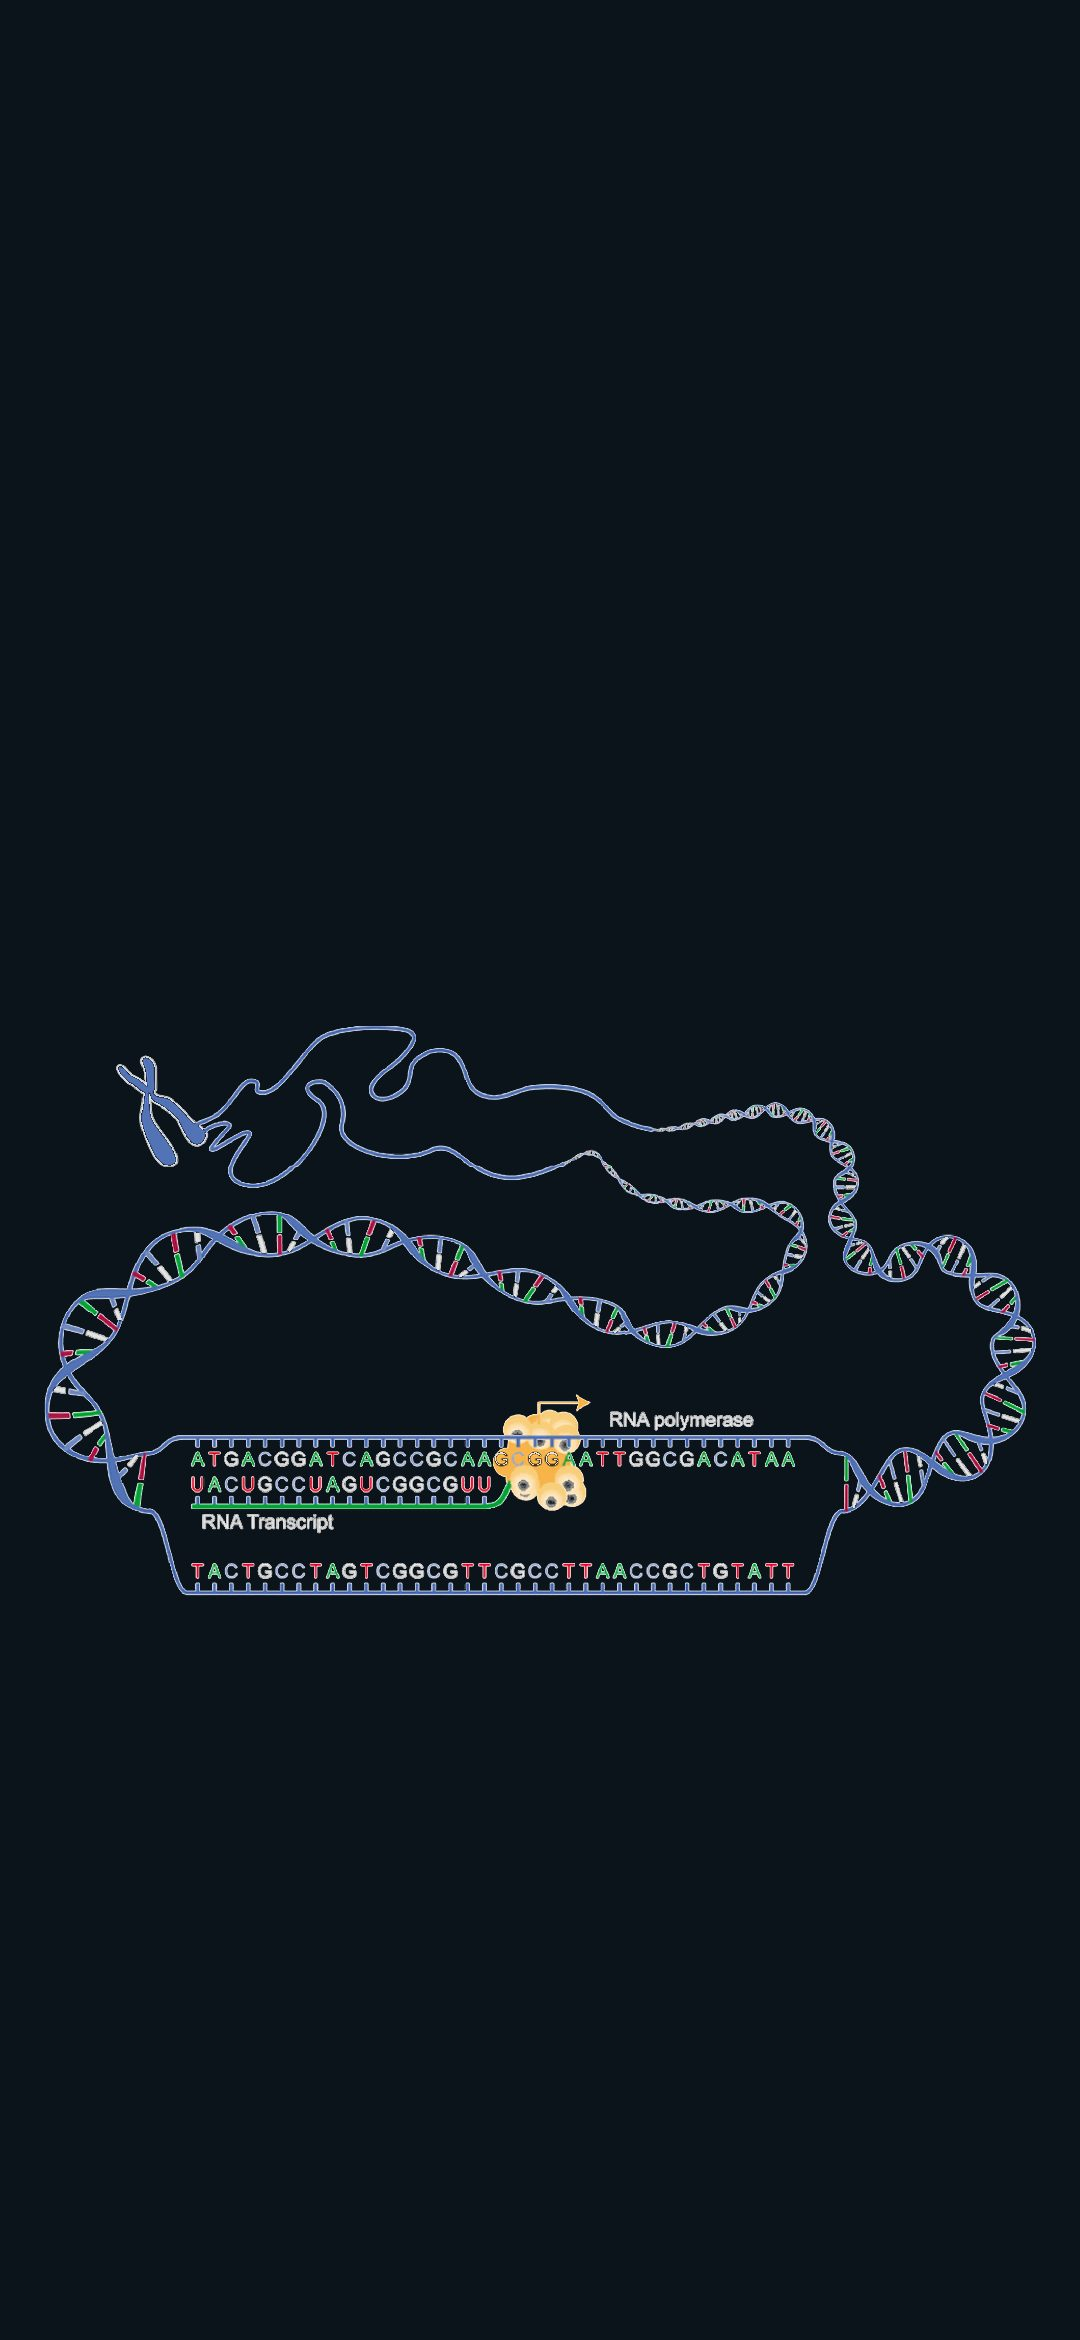
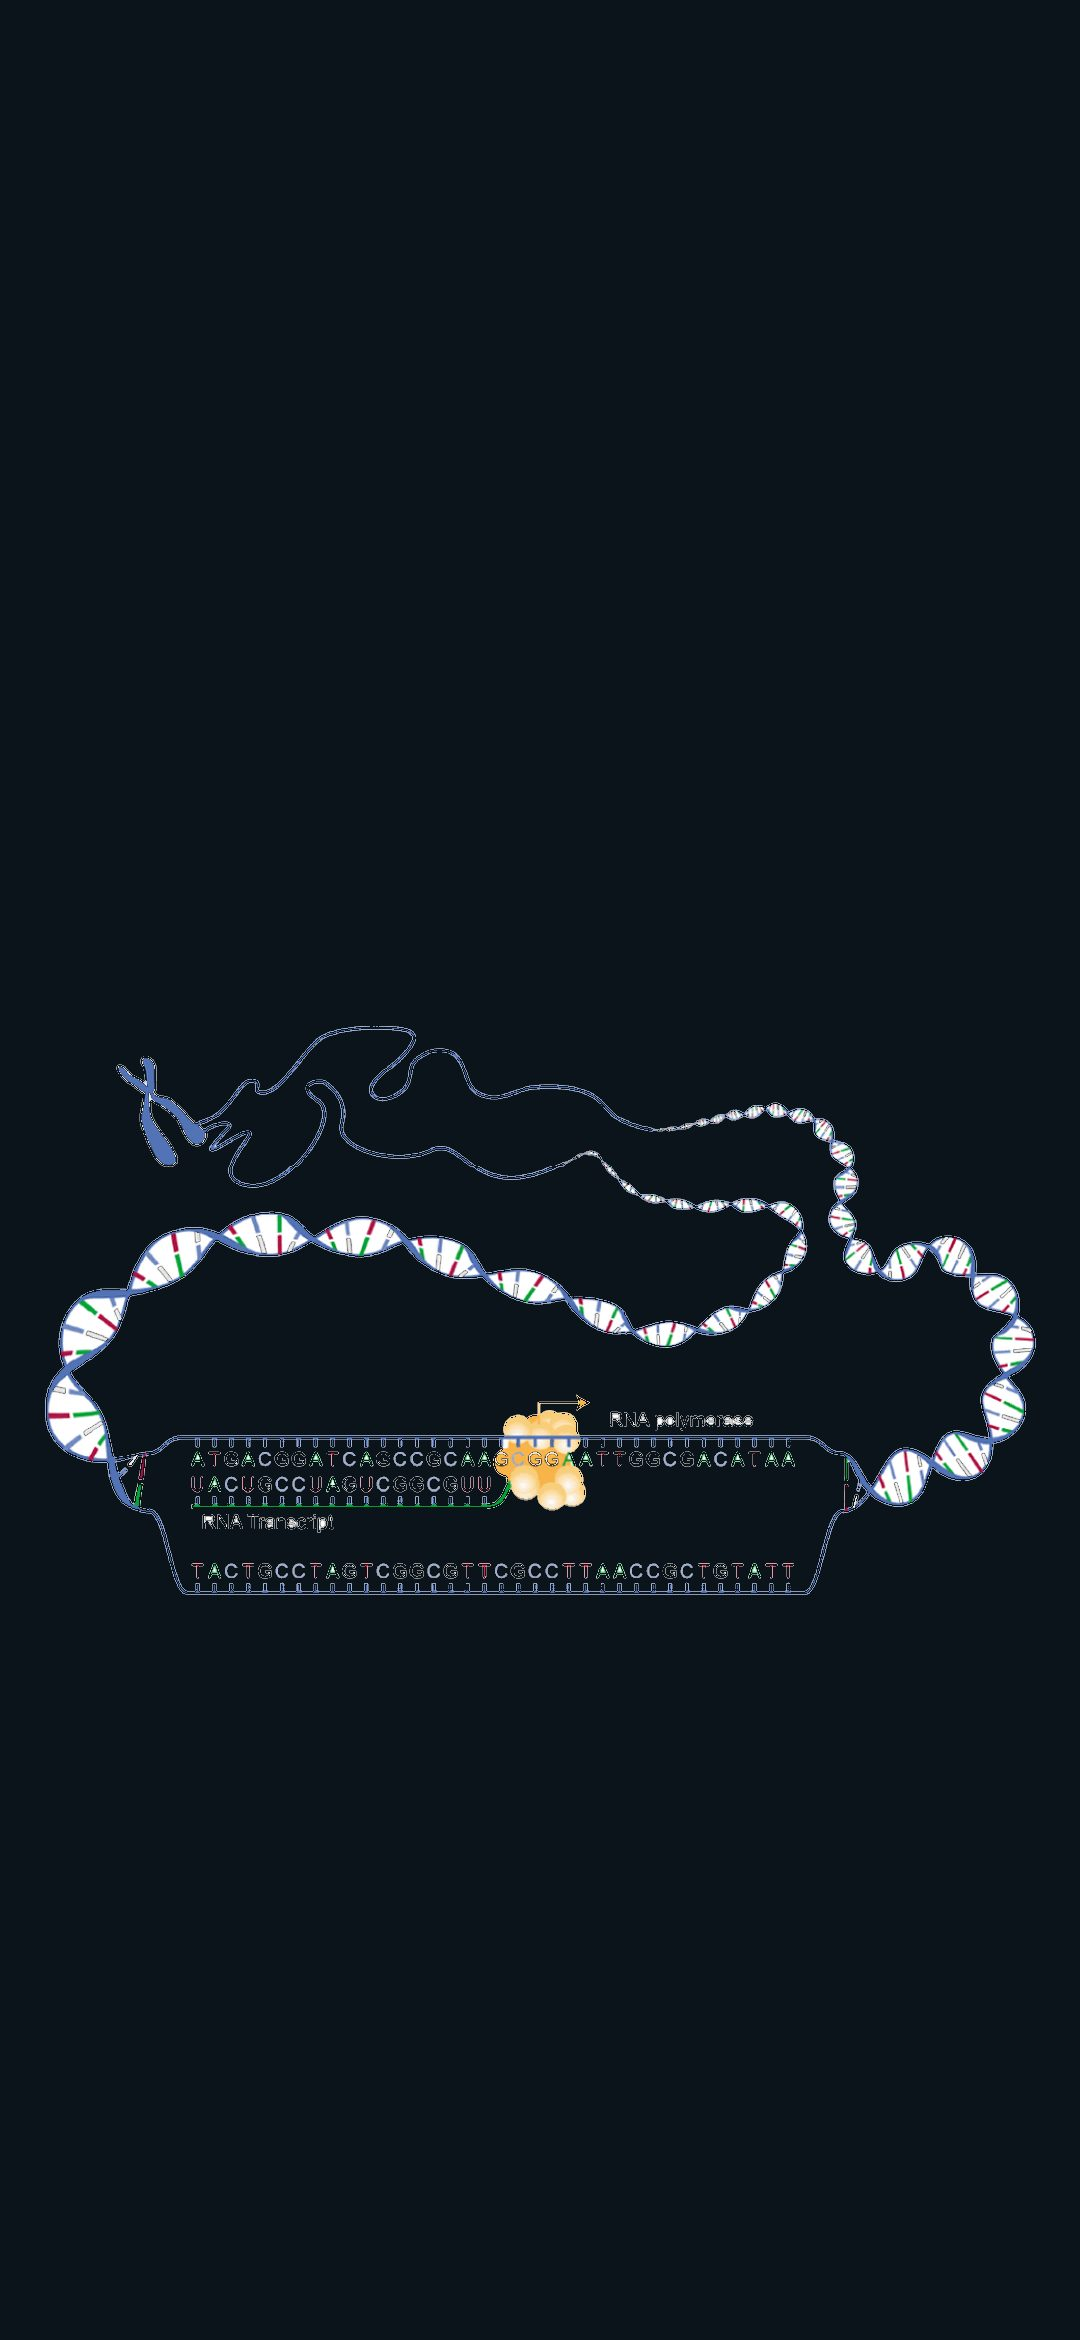
生物图去白底只去背景，图里的白色保留
- 原图透明的直接用透明通道
- 白底图只去掉和四边连通的白色；平面示意图再去掉被线围住的大片纯白
- 三维渲染图里的白色高光、白原子不再被挖空
- 只把小块的黑灰色（字、细线）反相成浅色，大块深色（碳原子）不动

diff --git a/scripts/biology/compose.py b/scripts/biology/compose.py
@@ -5,7 +5,9 @@
   python3 compose.py app/src/main/assets/biology [编号...]
 """
 import json, os, subprocess, sys, tempfile
+import numpy as np
 from PIL import Image
+from scipy import ndimage
 
 W, H = 1080, 2340
 BG = (11, 20, 27)
@@ -23,8 +25,8 @@ GG = "https://pdb101.rcsb.org/sci-art/goodsell-gallery/"
 items = [
     (1, "cm/05.bin", "plate", "DNA 双螺旋：碱基互补配对", B, "CC BY 3.0", C + "Blausen_0322_DNA_2.png"),
     (2, "cm/09.bin", "plate", "DNA 复制：解旋后两条链各作模板", LH, "公有领域", C + "DNA_replication_en.svg"),
-    (3, "cm/01.bin", "plate", "转录：RNA 聚合酶以一条链为模板合成 RNA", OS + "《Biology 2e》", "CC BY 4.0", C + "0325_Transcription.jpg"),
-    (4, "cm/15.bin", "plate", "翻译：核糖体沿 mRNA 移动，tRNA 运来氨基酸", LH, "公有领域", C + "Ribosome_mRNA_translation_en.svg"),
+    (3, "cm/01.bin", "plate+holes", "转录：RNA 聚合酶以一条链为模板合成 RNA", OS + "《Biology 2e》", "CC BY 4.0", C + "0325_Transcription.jpg"),
+    (4, "cm/15.bin", "plate+holes", "翻译：核糖体沿 mRNA 移动，tRNA 运来氨基酸", LH, "公有领域", C + "Ribosome_mRNA_translation_en.svg"),
     (5, "cm/x1.bin", "plate", "百合花粉母细胞减数分裂（显微照片）", "Josef Reischig", "CC BY-SA 3.0", C + "Meiosis_(261_33).jpg"),
     (6, "cm/08.bin", "plate", "细胞膜的流动镶嵌模型", LH, "公有领域", C + "Cell_membrane_detailed_diagram_en.svg"),
     (7, "tif/chloroplast.tif", "fill", "叶绿体内部：类囊体膜与基质里的分子", G + "，doi:10.2210/rcsb_pdb/goodsell-gallery-010", "CC BY 4.0", GG + "chloroplast"),
@@ -32,20 +34,20 @@ items = [
     (9, "cm/06.bin", "plate", "线粒体：内膜折叠成嵴", B, "CC BY 3.0", C + "Blausen_0644_Mitochondria.png"),
     (10, "gs/excitatory-and-inhibitory-synapses.png", "fill", "突触：突触小泡里的神经递质", G + "，doi:10.2210/rcsb_pdb/goodsell-gallery-016", "CC BY 4.0", GG + "excitatory-and-inhibitory-synapses"),
     (11, "cm/04.bin", "plate", "动作电位：Na⁺ 内流、K⁺ 外流", B, "CC BY 3.0", C + "Blausen_0011_ActionPotential_Nerve.png"),
-    (12, "cm/13.bin", "plate", "红细胞在高渗、等渗、低渗溶液中", LH, "公有领域", C + "Osmotic_pressure_on_blood_cells_diagram.svg"),
+    (12, "cm/13.bin", "plate+holes", "红细胞在高渗、等渗、低渗溶液中", LH, "公有领域", C + "Osmotic_pressure_on_blood_cells_diagram.svg"),
     (13, "gs/bacteriophage-t4-infection.png", "fill", "T4 噬菌体侵染大肠杆菌", G + "，doi:10.2210/rcsb_pdb/goodsell-gallery-048", "CC BY 4.0", GG + "bacteriophage-t4-infection"),
     (14, "gs/sars-cov-2-and-neutralizing-antibodies.png", "fill", "抗体（黄色）结合在病毒表面", G + "，doi:10.2210/rcsb_pdb/goodsell-gallery-025", "CC BY 4.0", GG + "sars-cov-2-and-neutralizing-antibodies"),
     (15, "cm/14.bin", "video", "紫色洋葱表皮细胞质壁分离及复原（实拍延时）", "Gabe Classon", "CC0", C + "Red_onion_plasmolysis_timelapse.webm"),
     (16, "gs/autophagy.png", "fill-trim", "自噬：溶酶体分解细胞内的旧结构", G + "，doi:10.2210/rcsb_pdb/goodsell-gallery-012", "CC BY 4.0", GG + "autophagy"),
-    (17, "cm/x0.bin", "plate", "ATP 分子（按晶体结构绘制）", "Ben Mills", "公有领域", C + "ATP-xtal-3D-balls.png"),
+    (17, "cm/x0.bin", "plate-notext", "ATP 分子（按晶体结构绘制）", "Ben Mills", "公有领域", C + "ATP-xtal-3D-balls.png"),
     (18, "gs/biosites-nucleus.png", "fill", "细胞核内：染色质与核孔", G + "，doi:10.2210/rcsb_pdb/goodsell-gallery-004", "CC BY 4.0", GG + "biosites-nucleus"),
-    (19, "cm/07.bin", "plate", "渗透：水透过半透膜进入溶液一侧", OS + "《Chemistry 2e》", "CC BY 4.0", C + "CNX_Chem_11_04_osmosis.png"),
-    (20, "cm/00.bin", "plate", "自由扩散：小分子顺浓度梯度穿过磷脂双分子层", OS + "《Biology 2e》", "CC BY 4.0", C + "0305_Simple_Diffusion_Across_Plasma_Membrane.jpg"),
+    (19, "cm/07.bin", "plate+holes", "渗透：水透过半透膜进入溶液一侧", OS + "《Chemistry 2e》", "CC BY 4.0", C + "CNX_Chem_11_04_osmosis.png"),
+    (20, "cm/00.bin", "plate+holes", "自由扩散：小分子顺浓度梯度穿过磷脂双分子层", OS + "《Biology 2e》", "CC BY 4.0", C + "0305_Simple_Diffusion_Across_Plasma_Membrane.jpg"),
 ]
 only = set(int(a) for a in sys.argv[2:])
 
 def flat(im):
-    # 透明底的矢量图先垫白，统一按白底处理（plate 里再把白去掉）。
+    # 油画、照片、视频帧：透明处垫白，转成 RGB。
     if im.mode in ("RGBA", "LA", "P"):
         im = im.convert("RGBA"); bg = Image.new("RGBA", im.size, (255, 255, 255, 255)); bg.alpha_composite(im); im = bg
     return im.convert("RGB")
@@ -73,40 +75,63 @@ def wide(im, trim=0.0):
     canvas.paste(Image.new("RGB", (W, fade), BG), (0, y0), Image.eval(mask, lambda v: 255 - v))
     return canvas
 
-def knockout(im):
-    """去掉白底：接近白色的像素变透明；黑灰色的字和线条提亮成浅灰，放在深色底上看得见；彩色部分不动。"""
-    im = im.convert("RGBA")
-    px = im.load()
-    for y in range(im.height):
-        for x in range(im.width):
-            r, g, b, a = px[x, y]
-            lo, hi = min(r, g, b), max(r, g, b)
-            if lo > 200:  # 白和近白：越白越透明
-                a = a * max(0, 250 - lo) // 50
-            elif hi - lo < 28 and hi < 140:  # 黑灰色字和线
-                v = 235 - hi // 3
-                r = g = b = v
-            px[x, y] = (r, g, b, a)
-    return im
+def knockout(im, holes=False, text=True):
+    """
+    去掉白底，放到深色底上。
+    原图本来透明（矢量图）就直接用它的透明通道，图里的白色一律保留。
+    白底的图只去掉和四边连成一片的白色；holes=True 的图（平面示意图）再去掉被线条围住的大片纯白。
+    三维渲染图里的白色高光、白原子都留着。背景边缘按白的程度渐变透明。
+    text=True 时，小块的黑灰色连通块（字、细线、箭头）按亮度反相成浅色，大块深色不动。
+    """
+    rgba = np.asarray(im.convert("RGBA")).astype(np.int16)
+    a, alpha = rgba[:, :, :3], rgba[:, :, 3].copy()
+    lo, hi = a.min(axis=2), a.max(axis=2)
+    if (alpha < 10).mean() < 0.05:
+        white = lo > 225
+        labels, n = ndimage.label(white)
+        keep = set(np.unique(np.concatenate([labels[0], labels[-1], labels[:, 0], labels[:, -1]]))) - {0}
+        if holes:
+            sizes = ndimage.sum(white, labels, range(1, n + 1))
+            means = ndimage.mean(lo, labels, range(1, n + 1))
+            keep |= {i + 1 for i in range(n) if sizes[i] > white.size * 0.004 and means[i] > 248}
+        bg = np.isin(labels, list(keep))
+        near = ndimage.binary_dilation(bg, iterations=2) & ~bg
+        alpha[bg] = 0
+        alpha[near] = np.minimum(alpha[near], np.clip((255 - lo[near]) * 255 // 90, 0, 255))
+    if text:
+        dark = (hi - lo < 40) & (hi < 170) & (alpha > 0)
+        labels, n = ndimage.label(dark, structure=np.ones((3, 3)))
+        if n:
+            sizes = ndimage.sum(dark, labels, range(1, n + 1))
+            boxes = ndimage.find_objects(labels)
+            small = np.zeros(n + 1, bool)
+            for i, (sl, sz) in enumerate(zip(boxes, sizes)):
+                h = sl[0].stop - sl[0].start
+                small[i + 1] = sz < dark.size * 0.002 and h < im.height * 0.08
+            m = small[labels] & dark
+            v = 250 - (hi * 4) // 5
+            for c in range(3):
+                ch = a[:, :, c]; ch[m] = v[m]
+    return Image.fromarray(np.dstack([a, alpha]).clip(0, 255).astype(np.uint8), "RGBA")
 
-def plate(im, knock=True):
+def plate(im, knock=True, holes=False, text=True):
     # 示意图放在中下部：首页卡片占左上，下面是 Learn/Review。不垫白底，直接放在深色底上；实拍照片不动。
     maxw, maxh = W - 2 * 40, int(H * 0.34)
     s = min(maxw / im.width, maxh / im.height)
     im = im.resize((round(im.width * s), round(im.height * s)), Image.LANCZOS)
-    im = knockout(im) if knock else im.convert("RGBA")
+    im = knockout(im, holes, text) if knock else im.convert("RGBA")
     canvas = Image.new("RGBA", (W, H), BG + (255,))
     x0, cy = (W - im.width) // 2, int(H * 0.56)
     y0 = min(cy - im.height // 2, int(H * 0.72) - im.height)
     canvas.alpha_composite(im, (x0, y0))
     return canvas.convert("RGB")
 
-def full(im, path, how="plate"):
+def full(im, path, how="plate", holes=False, text=True):
     # 点开看的整图也放在深色底上。
     im = im.copy(); im.thumbnail((1400, 1400), Image.LANCZOS)
-    if how == "plate":
-        k = knockout(im); im = Image.new("RGBA", k.size, BG + (255,)); im.alpha_composite(k); im = im.convert("RGB")
-    im.save(path, quality=85)
+    if how.startswith("plate"):
+        k = knockout(im, holes, text); im = Image.new("RGBA", k.size, BG + (255,)); im.alpha_composite(k)
+    im.convert("RGB").save(path, quality=85)
 
 sources = []
 for n, f, how, what, who, lic, url in items:
@@ -127,8 +152,10 @@ for n, f, how, what, who, lic, url in items:
             full(flat(Image.open(os.path.join(d, frames[len(frames) // 2]))), os.path.join(out, name + "-full.jpg"), "video")
             subprocess.run(["img2webp", "-loop", "0", "-lossy", "-q", "70", "-m", "6", "-d", "125", *paths, "-o", os.path.join(out, name + ".webp")], check=True, capture_output=True)
         print(name, "video", len(seq)); continue
-    im = flat(Image.open(os.path.join(src, f)))
-    (wide(im, 0.07 if how == "fill-trim" else 0) if how.startswith("fill") else plate(im, how != "photo")).save(os.path.join(out, name + ".jpg"), quality=82)
-    full(im, os.path.join(out, name + "-full.jpg"), how)
+    raw = Image.open(os.path.join(src, f))
+    im = raw.convert("RGBA") if how.startswith("plate") else flat(raw)
+    holes, text = "+holes" in how, "-notext" not in how
+    (wide(im, 0.07 if how == "fill-trim" else 0) if how.startswith("fill") else plate(im, how != "photo", holes, text)).save(os.path.join(out, name + ".jpg"), quality=82)
+    full(im, os.path.join(out, name + "-full.jpg"), how, holes, text)
     print(name, how, im.size)
 json.dump(sources, open(os.path.join(out, "sources.json"), "w"), ensure_ascii=False, indent=1)
